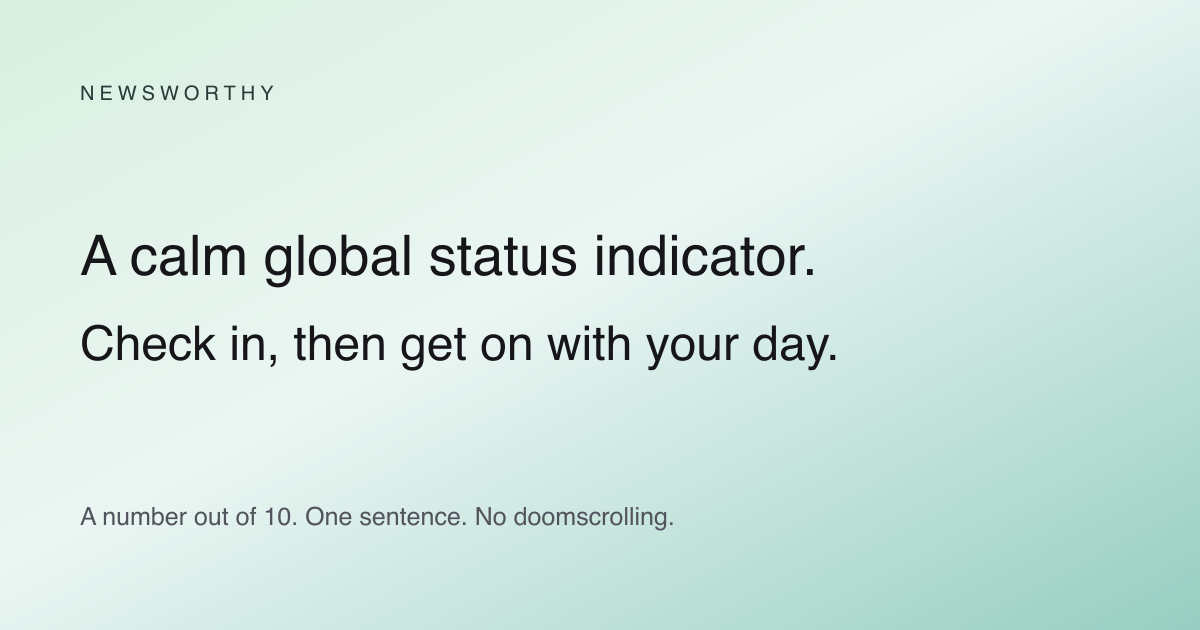
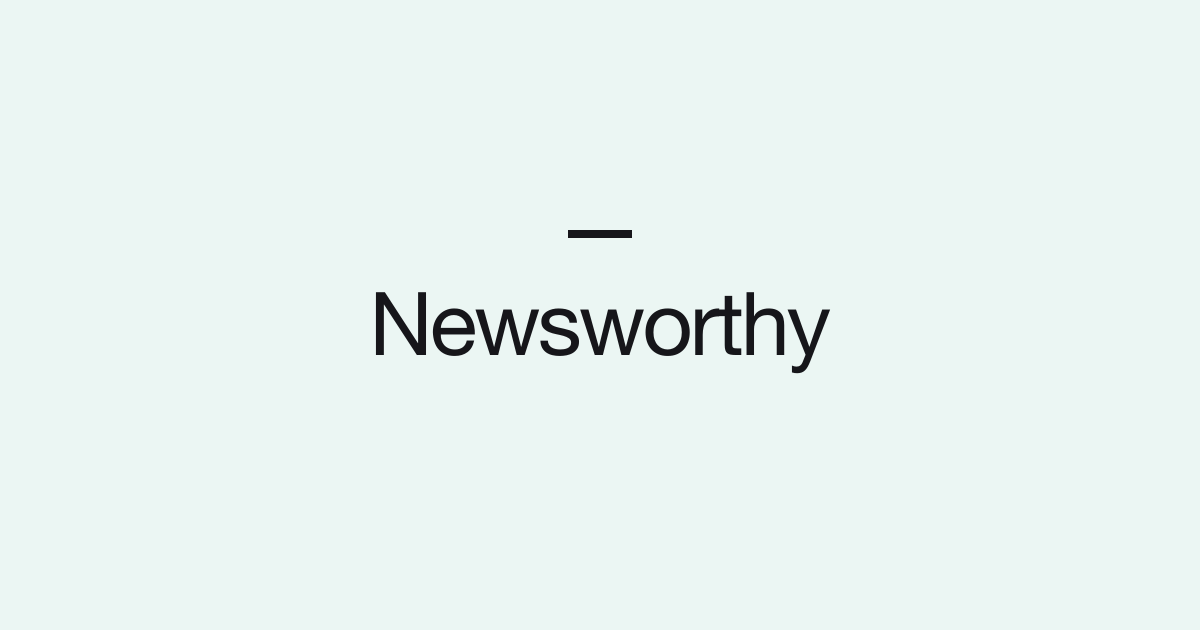
Simplify website share card and use factual public copy

diff --git a/public/support.html b/public/support.html
@@ -4,45 +4,37 @@
   <meta charset="utf-8">
   <meta name="viewport" content="width=device-width, initial-scale=1">
   <title>Support · Newsworthy</title>
-  <meta name="description" content="Get help with Newsworthy: a calm global status indicator with no doomscrolling, subscriptions, in-app purchases or ads.">
+  <meta name="description" content="Help with Newsworthy ratings, widgets and connections.">
   <link rel="canonical" href="https://newsworthy-indol.vercel.app/support">
   <link rel="stylesheet" href="/info.css">
 <meta property="og:type" content="website">
 <meta property="og:site_name" content="Newsworthy">
 <meta property="og:title" content="Support · Newsworthy">
-<meta property="og:description" content="Get help with Newsworthy: a calm global status indicator with no doomscrolling, subscriptions, in-app purchases or ads.">
+<meta property="og:description" content="Help with Newsworthy ratings, widgets and connections.">
 <meta property="og:url" content="https://newsworthy-indol.vercel.app/support">
-<meta property="og:image" content="https://newsworthy-indol.vercel.app/social-card.png">
+<meta property="og:image" content="https://newsworthy-indol.vercel.app/social-card.png?v=2">
 <meta property="og:image:width" content="1200">
 <meta property="og:image:height" content="630">
-<meta property="og:image:alt" content="Newsworthy. A calm global status indicator. Check in, then get on with your day.">
+<meta property="og:image:alt" content="Newsworthy wordmark and dash on a pale mint background.">
 <meta name="twitter:card" content="summary_large_image">
 <meta name="twitter:title" content="Support · Newsworthy">
-<meta name="twitter:description" content="Get help with Newsworthy: a calm global status indicator with no doomscrolling, subscriptions, in-app purchases or ads.">
-<meta name="twitter:image" content="https://newsworthy-indol.vercel.app/social-card.png">
-<meta name="twitter:image:alt" content="Newsworthy. A calm global status indicator. Check in, then get on with your day.">
+<meta name="twitter:description" content="Help with Newsworthy ratings, widgets and connections.">
+<meta name="twitter:image" content="https://newsworthy-indol.vercel.app/social-card.png?v=2">
+<meta name="twitter:image:alt" content="Newsworthy wordmark and dash on a pale mint background.">
 <link rel="icon" type="image/svg+xml" href="/favicon.svg">
 </head>
 <body data-brand><div class="level-gradient" aria-hidden="true"></div><div class="page">
   <header><a class="wordmark" href="/">Newsworthy</a></header>
   <main>
-    <h1>A little help.<br>Then back to your day.</h1>
-    <p class="intro">Newsworthy gives you a simple, calm indication of what’s happening in the world. Enough perspective to stay connected without getting pulled into the feed.</p>
+    <h1>Support</h1>
+    <p class="intro">Help with ratings, widgets and connections.</p>
     <h2>Contact</h2>
     <p>Found a problem, have a question or want to share feedback? Email us directly.</p>
     <a class="contact" href="mailto:astrojams1@gmail.com?subject=Newsworthy%20support">astrojams1@gmail.com</a>
     <p>If something isn’t working, include your device, operating system or browser, and a short description of what happened. A screenshot can help. Please leave out sensitive information.</p>
 
     <h2>What is Newsworthy?</h2>
-    <p>A global status indicator: a number out of 10 and one sentence explaining why. Higher scores mean more consequential news. The score fades as developments age.</p>
-    <p>The news can pull us toward constant anxiety or make us switch off entirely. Newsworthy offers a calmer middle ground: check the world, then get on with your life.</p>
-    <ul>
-      <li>No doomscrolling.</li>
-      <li>No subscription.</li>
-      <li>No in-app purchases.</li>
-      <li>No ads.</li>
-      <li>No streaks, engagement bait, addictive loops or growth-hacking tricks.</li>
-    </ul>
+    <p>Newsworthy rates the significance of world news using AI. Each reading includes a score from 1 to 10, a brief explanation and an update time. Higher scores mean more consequential news. The score fades as developments age.</p>
 
     <h2>The rating looks old or won’t load</h2>
     <p>Check your connection, reopen the app, or refresh the website. If “Try again” appears, tap it. “Saved reading” means the last available rating is being shown; its original update time stays visible. If no reading has been saved, you’ll see a dash until the service can be reached.</p>

diff --git a/apps/client/app/+html.tsx b/apps/client/app/+html.tsx
@@ -4,7 +4,7 @@ export default function Html({ children }: PropsWithChildren) {
   return <html lang="en"><head>
     <meta charSet="utf-8" />
     <meta name="viewport" content="width=device-width, initial-scale=1, viewport-fit=cover" />
-    <meta name="description" content="A calm global status indicator. A number out of 10 and one sentence. No doomscrolling, subscriptions, in-app purchases or ads." />
+    <meta name="description" content="World news, rated by significance." />
     <link rel="canonical" href="https://newsworthy-indol.vercel.app/" />
     <ScrollViewStyleReset />
     <link rel="stylesheet" href="/levels.css" />
@@ -12,19 +12,19 @@ export default function Html({ children }: PropsWithChildren) {
     <link rel="apple-touch-icon" href="/brand/apple-touch-icon.png" />
 <meta property="og:type" content="website" />
 <meta property="og:site_name" content="Newsworthy" />
-<meta property="og:title" content="Newsworthy — A calm global status indicator" />
-<meta property="og:description" content="A calm global status indicator. A number out of 10 and one sentence. No doomscrolling, subscriptions, in-app purchases or ads." />
+<meta property="og:title" content="Newsworthy" />
+<meta property="og:description" content="World news, rated by significance." />
 <meta property="og:url" content="https://newsworthy-indol.vercel.app/" />
-<meta property="og:image" content="https://newsworthy-indol.vercel.app/social-card.png" />
+<meta property="og:image" content="https://newsworthy-indol.vercel.app/social-card.png?v=2" />
 <meta property="og:image:width" content="1200" />
 <meta property="og:image:height" content="630" />
-<meta property="og:image:alt" content="Newsworthy. A calm global status indicator. Check in, then get on with your day." />
+<meta property="og:image:alt" content="Newsworthy wordmark and dash on a pale mint background." />
 <meta name="twitter:card" content="summary_large_image" />
-<meta name="twitter:title" content="Newsworthy — A calm global status indicator" />
-<meta name="twitter:description" content="A calm global status indicator. A number out of 10 and one sentence. No doomscrolling, subscriptions, in-app purchases or ads." />
-<meta name="twitter:image" content="https://newsworthy-indol.vercel.app/social-card.png" />
-<meta name="twitter:image:alt" content="Newsworthy. A calm global status indicator. Check in, then get on with your day." />
+<meta name="twitter:title" content="Newsworthy" />
+<meta name="twitter:description" content="World news, rated by significance." />
+<meta name="twitter:image" content="https://newsworthy-indol.vercel.app/social-card.png?v=2" />
+<meta name="twitter:image:alt" content="Newsworthy wordmark and dash on a pale mint background." />
 
-    <script type="application/ld+json" dangerouslySetInnerHTML={{ __html: JSON.stringify({ '@context': 'https://schema.org', '@type': 'WebSite', name: 'Newsworthy', url: 'https://newsworthy-indol.vercel.app/', description: 'A calm global status indicator: a number out of 10 and one sentence explaining why.' }) }} />
+    <script type="application/ld+json" dangerouslySetInnerHTML={{ __html: JSON.stringify({ '@context': 'https://schema.org', '@type': 'WebSite', name: 'Newsworthy', url: 'https://newsworthy-indol.vercel.app/', description: 'World news, rated by significance.' }) }} />
   </head><body><main style={{ height: '100%', display: 'flex', flexDirection: 'column' }}>{children}</main></body></html>;
 }

diff --git a/test/design.test.js b/test/design.test.js
@@ -1,6 +1,9 @@
 import test from 'node:test';
 import assert from 'node:assert/strict';
 import { execFileSync } from 'node:child_process';
+import { readFile } from 'node:fs/promises';
+import sharp from 'sharp';
+import { DOMParser } from '@xmldom/xmldom';
 import tokens from '../public/tokens.js';
 import { contrast } from '../design/colors.js';
 import { faviconSvg, levelPalette } from '../public/design.js';
@@ -29,4 +32,37 @@ test('all level and brand text meets AA on its intended surfaces in both appeara
 
 test('web, Android, and iOS palettes are generated from the current source', () => {
   execFileSync(process.execPath, ['scripts/generate-design.mjs', '--check'], { cwd: new URL('..', import.meta.url), stdio: 'pipe' });
+});
+
+// Link previews shrink this image to a thumbnail. Keep one readable wordmark
+// instead of allowing taglines and feature lists to accumulate on the artwork.
+test('share artwork is an evergreen dash and wordmark, with matching PNG exports', async () => {
+  const svg = await readFile(new URL('../public/social-card.svg', import.meta.url), 'utf8');
+  const doc = new DOMParser().parseFromString(svg, 'image/svg+xml');
+  const texts = Array.from(doc.getElementsByTagName('text'));
+  assert.deepEqual(texts.map(node => node.textContent), ['Newsworthy']);
+  assert.equal(doc.getElementsByTagName('linearGradient').length, 0);
+  assert.equal(doc.getElementsByTagName('image').length, 0);
+  const rects = Array.from(doc.getElementsByTagName('rect'));
+  assert.equal(rects.length, 2, 'one canvas and one dash');
+  assert.equal(rects[0].getAttribute('fill'), tokens.brand.light.center);
+  assert.equal(rects[1].getAttribute('width'), '64');
+  assert.equal(rects[1].getAttribute('height'), '8');
+  assert.ok(Number(texts[0].getAttribute('font-size')) >= 80, 'wordmark stays legible in a thumbnail');
+  const card = await readFile(new URL('../public/social-card.png', import.meta.url));
+  const brand = await readFile(new URL('../public/brand/share.png', import.meta.url));
+  assert.deepEqual(card, brand);
+  const { data, info } = await sharp(card).ensureAlpha().raw().toBuffer({ resolveWithObject: true });
+  assert.equal(info.width, 1200);
+  assert.equal(info.height, 630);
+  const bg = tokens.brand.light.center.slice(1).match(/../g).map(hex => parseInt(hex, 16));
+  // Clear margins reject the old multi-line promotional layout even if SVG and
+  // PNG were accidentally updated separately. Typography rasterization varies by OS.
+  for (const [x, y] of [[80, 100], [80, 275], [80, 360], [80, 525], [1100, 525]]) {
+    const offset = (y * info.width + x) * 4;
+    assert.deepEqual([...data.subarray(offset, offset + 4)], [...bg, 255]);
+  }
+  const dash = (234 * info.width + 600) * 4;
+  const ink = tokens.brand.light.ink.slice(1).match(/../g).map(hex => parseInt(hex, 16));
+  assert.deepEqual([...data.subarray(dash, dash + 4)], [...ink, 255]);
 });

diff --git a/public/privacy.html b/public/privacy.html
@@ -12,15 +12,15 @@
 <meta property="og:title" content="Privacy policy · Newsworthy">
 <meta property="og:description" content="How Newsworthy handles saved readings, technical information and support messages.">
 <meta property="og:url" content="https://newsworthy-indol.vercel.app/privacy">
-<meta property="og:image" content="https://newsworthy-indol.vercel.app/social-card.png">
+<meta property="og:image" content="https://newsworthy-indol.vercel.app/social-card.png?v=2">
 <meta property="og:image:width" content="1200">
 <meta property="og:image:height" content="630">
-<meta property="og:image:alt" content="Newsworthy. A calm global status indicator. Check in, then get on with your day.">
+<meta property="og:image:alt" content="Newsworthy wordmark and dash on a pale mint background.">
 <meta name="twitter:card" content="summary_large_image">
 <meta name="twitter:title" content="Privacy policy · Newsworthy">
 <meta name="twitter:description" content="How Newsworthy handles saved readings, technical information and support messages.">
-<meta name="twitter:image" content="https://newsworthy-indol.vercel.app/social-card.png">
-<meta name="twitter:image:alt" content="Newsworthy. A calm global status indicator. Check in, then get on with your day.">
+<meta name="twitter:image" content="https://newsworthy-indol.vercel.app/social-card.png?v=2">
+<meta name="twitter:image:alt" content="Newsworthy wordmark and dash on a pale mint background.">
 <link rel="icon" type="image/svg+xml" href="/favicon.svg">
 </head>
 <body data-brand><div class="level-gradient" aria-hidden="true"></div><div class="page">
@@ -28,7 +28,7 @@
   <main>
     <h1>Privacy policy</h1>
     <p class="updated">Effective September 15, 2026</p>
-    <p class="intro">Newsworthy is a calm global status indicator. You don’t need an account, and we don’t build a profile of your news habits.</p>
+    <p class="intro">Newsworthy does not require an account or build a profile of your news habits.</p>
     <p>This policy covers the Newsworthy website, mobile apps and home-screen widgets. For privacy questions, contact the person operating Newsworthy at <a href="mailto:astrojams1@gmail.com">astrojams1@gmail.com</a>.</p>
 
     <h2>Information we handle</h2>

diff --git a/test/discovery.test.js b/test/discovery.test.js
@@ -20,8 +20,14 @@ test('public discovery links resolve, metadata parses, and operational routes op
       assert.equal(html.match(/rel="canonical" href="([^"]+)"/)[1], location);
       assert.equal(html.match(/property="og:url" content="([^"]+)"/)[1], location);
       assert.equal(html.match(/property="og:title" content="([^"]+)"/)[1], html.match(/<title[^>]*>([^<]+)<\/title>/)[1]);
-      assert.equal(html.match(/property="og:image" content="([^"]+)"/)[1], site + '/social-card.png');
+      assert.equal(html.match(/property="og:image" content="([^"]+)"/)[1], site + '/social-card.png?v=2');
+      assert.equal(html.match(/name="twitter:image" content="([^"]+)"/)[1], site + '/social-card.png?v=2');
+      assert.doesNotMatch(html, /doomscrolling|calm global status indicator|middle ground|constant anxiety|back to your day/i);
       if (location === site + '/') {
+        assert.equal(html.match(/<title[^>]*>([^<]+)<\/title>/)[1], 'Newsworthy');
+        for (const attribute of ['name="description"', 'property="og:description"', 'name="twitter:description"']) {
+          assert.ok(html.includes(`${attribute} content="World news, rated by significance."`));
+        }
         const data = JSON.parse(html.match(/<script type="application\/ld\+json">([\s\S]*?)<\/script>/)[1]);
         assert.equal(data['@type'], 'WebSite');
         assert.equal(data.url, location);
@@ -30,7 +36,7 @@ test('public discovery links resolve, metadata parses, and operational routes op
       }
     }
 
-    const card = await fetch(`${base}/social-card.png`);
+    const card = await fetch(`${base}/social-card.png?v=2`);
     assert.equal(card.status, 200);
     assert.equal(card.headers.get('content-type'), 'image/png');
     const bytes = Buffer.from(await card.arrayBuffer());

diff --git a/apps/client/app/index.tsx b/apps/client/app/index.tsx
@@ -48,7 +48,7 @@ export default function Home() {
     <AppIcon color={theme.accent} />
   </Pressable> : null;
   return <>
-    {process.env.EXPO_OS === 'web' && <Head><title>Newsworthy — A calm global status indicator</title></Head>}
+    {process.env.EXPO_OS === 'web' && <Head><title>Newsworthy</title></Head>}
     <Stack.Screen options={{ headerTransparent: true, headerStyle: { backgroundColor: 'transparent' }, headerTitle: '',
       headerLeft: () => brand, headerRight: () => shareButton,
       // A transparent bar does not hide iOS 26+ glass around individual items.

diff --git a/docs/product-messaging.md b/docs/product-messaging.md
@@ -5,17 +5,21 @@ README and agent documentation. Keep descriptions of availability accurate.
 
 ## Core copy
 
-**Newsworthy is a calm global status indicator: a number out of 10 and one
-sentence explaining why.**
+**World news, rated by significance.**
 
-Constant news can leave us anxious. Switching off entirely can leave us out of
-touch. Newsworthy offers a calmer middle ground. Check in, then get on with your day.
+Newsworthy uses AI to assess the significance of world news. Each reading has a
+score from 1 to 10, a brief explanation and an update time.
 
-- No doomscrolling.
-- No subscription.
-- No in-app purchases.
-- No ads.
-- No engagement, addiction or growth-hacking tactics.
+The share image contains only the dash and wordmark on a flat pale mint background.
+The link title is “Newsworthy”; its description is the core copy above.
+
+Describe the product directly. Avoid emotional framing about anxiety, switching
+off, breathing room or getting on with your day. Do not use “no doomscrolling”
+or a list of absent features as a tagline. Subscription, purchase and advertising
+facts belong in relevant help and policy sections.
+
+Product constraints remain: no feed, subscriptions, in-app purchases, ads, or
+engagement, addiction or growth-hacking tactics.
 
 ## Voice and claims
 
@@ -54,7 +58,8 @@ widgets and the complete app package without updating local Xcode.
 
 - `apps/client/app/`: shared reading screen, search metadata, social tags and WebSite data.
 - `public/privacy.html`, `public/support.html`: policy and help; each has its own metadata.
-- `public/social-card.svg`: editable source for the evergreen social preview PNG.
+- `scripts/generate-brand.mjs`: evergreen share-art source; generates
+  `public/social-card.svg`, `public/social-card.png` and `public/brand/share.png`.
 - `public/robots.txt`, `public/sitemap.xml`: crawler access and public page discovery.
 - `public/llms.txt`: public facts for AI readers; a voluntary reference, not a
   guaranteed discovery or ranking mechanism.

diff --git a/design/README.md b/design/README.md
@@ -32,7 +32,8 @@ A static icon must not imply that an old score is current. Widgets can refresh a
 - `--ink-muted` and `--ink-faint` are for plain or lightly tinted surfaces. `--ink-on-gradient-muted` is for secondary text on stronger gradient backgrounds.
 - `data-level="1"` through `"10"` applies a reading palette. Omit it for the brand default. `data-brand` makes a brand background visible.
 - `data-appearance` is only used by the design preview to show both appearances together. The production app follows the system without a manual override.
-- The HTML manifest supplies fixed install icons. Social previews use fixed brand art, not a cached news score.
+- The HTML manifest supplies fixed install icons. Social previews use a flat pale mint canvas with only the dash and wordmark,
+  not a cached news score. Descriptions belong in metadata, not on the image.
 
 The design test verifies AA text contrast across the opaque gradient stops and control surfaces in both appearances. The live web background uses the same colors in layered radial washes. The number and sentence remain the source of meaning, independent of color.
 

diff --git a/CLAUDE.md b/CLAUDE.md
@@ -1,11 +1,13 @@
 # Newsworthy
 
-Newsworthy is a calm global status indicator: a number out of 10 and one sentence explaining why.
+World news, rated by significance.
 
-No doomscrolling. No subscription. No in-app purchases. No ads. No engagement, addiction or growth-hacking tactics.
+Newsworthy uses AI to assess world news with a score from 1 to 10, a brief
+explanation and an update time.
 
-The product helps people stay connected without constant anxious consumption
-or switching off entirely. Check in, then get on with your day.
+Product constraints: no feed, subscriptions, in-app purchases, ads, or engagement,
+addiction or growth-hacking tactics.
+
 See `docs/product-messaging.md` for shared claims and `README.md` for current
 release status. Calm presentation must not change the rating calibration.
 

diff --git a/README.md b/README.md
@@ -1,11 +1,9 @@
 # Newsworthy
 
-Newsworthy is a calm global status indicator: a number out of 10 and one sentence explaining why.
+World news, rated by significance.
 
-Constant news can leave us anxious; switching off entirely can leave us out of
-touch. Check in, then get on with your day.
-
-No doomscrolling. No subscription. No in-app purchases. No ads. No engagement, addiction or growth-hacking tactics.
+Newsworthy uses AI to assess world news with a score from 1 to 10, a brief
+explanation and an update time.
 
 [Open Newsworthy](https://newsworthy-indol.vercel.app/) ·
 [Privacy](https://newsworthy-indol.vercel.app/privacy) ·
